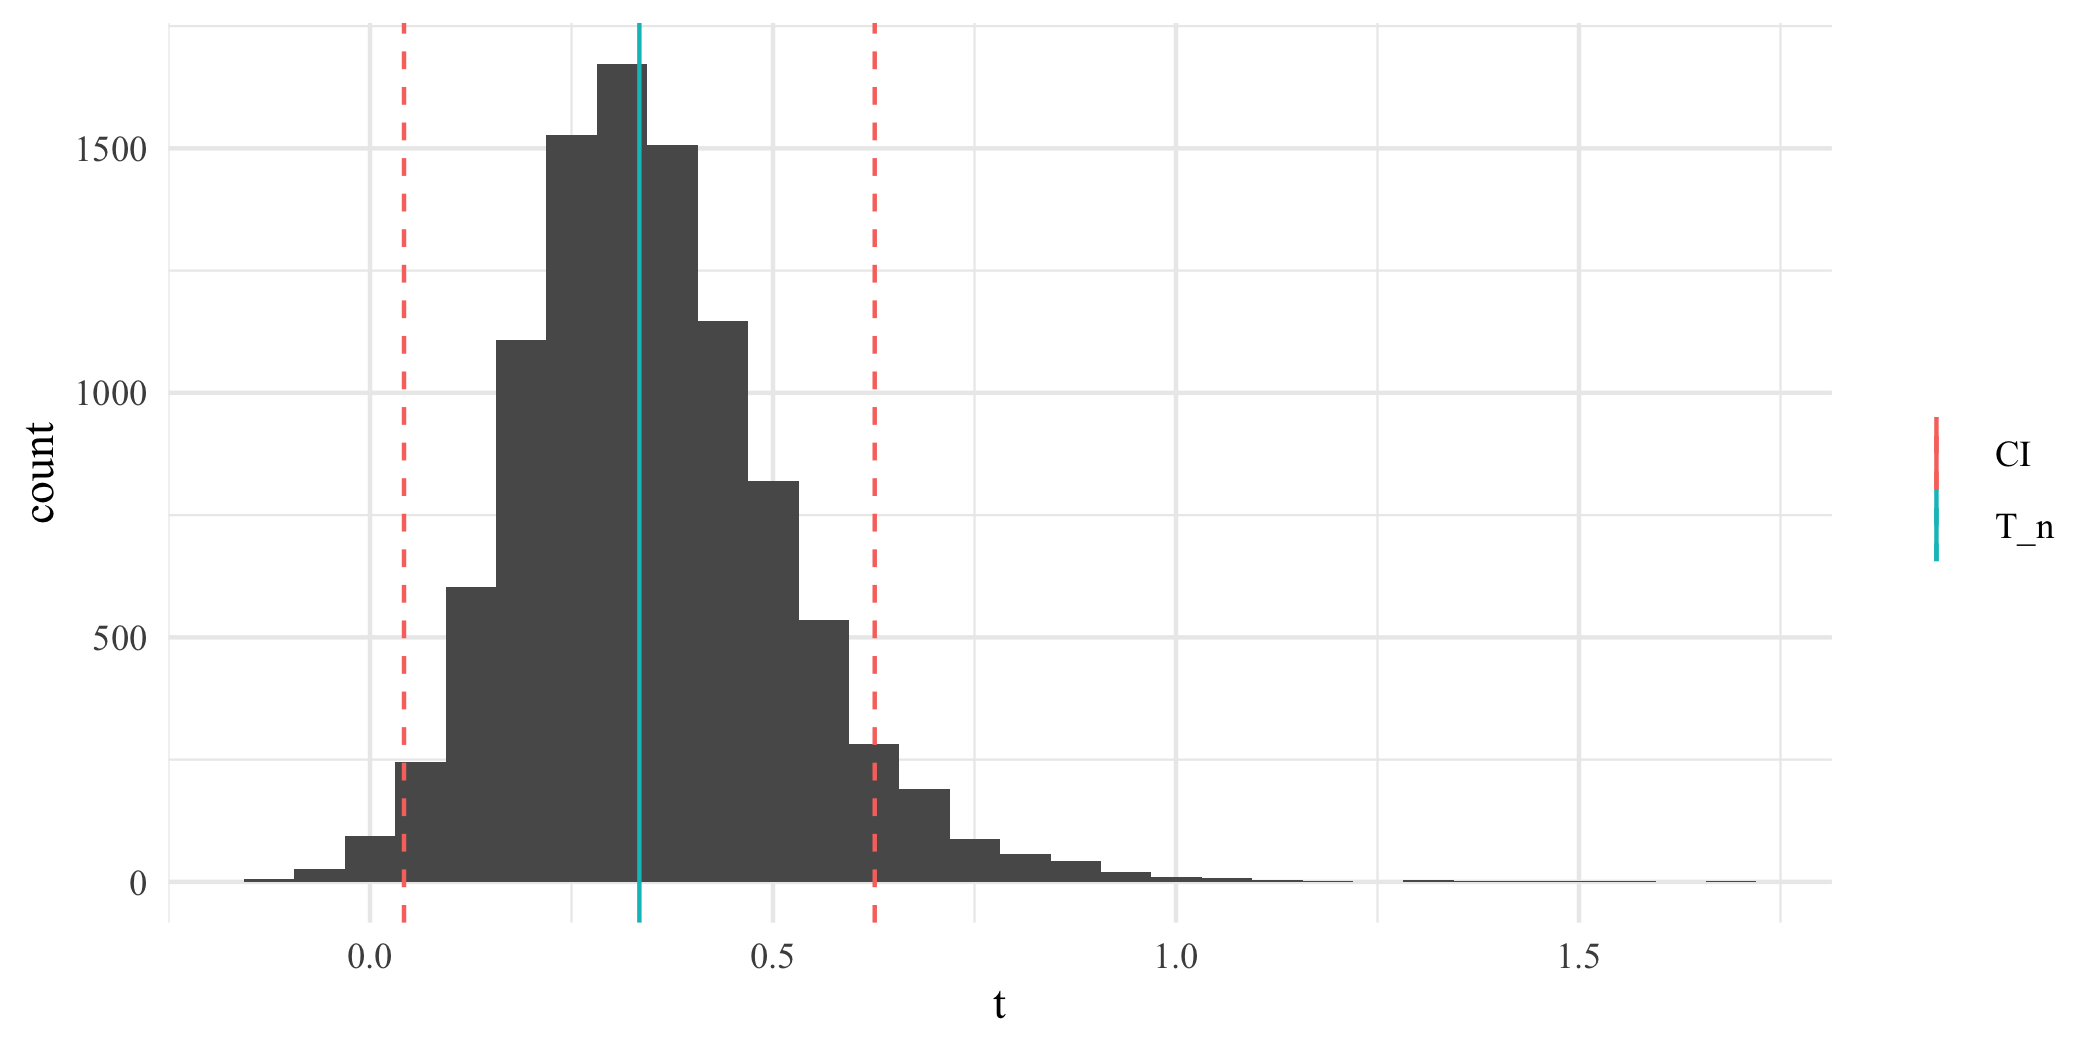
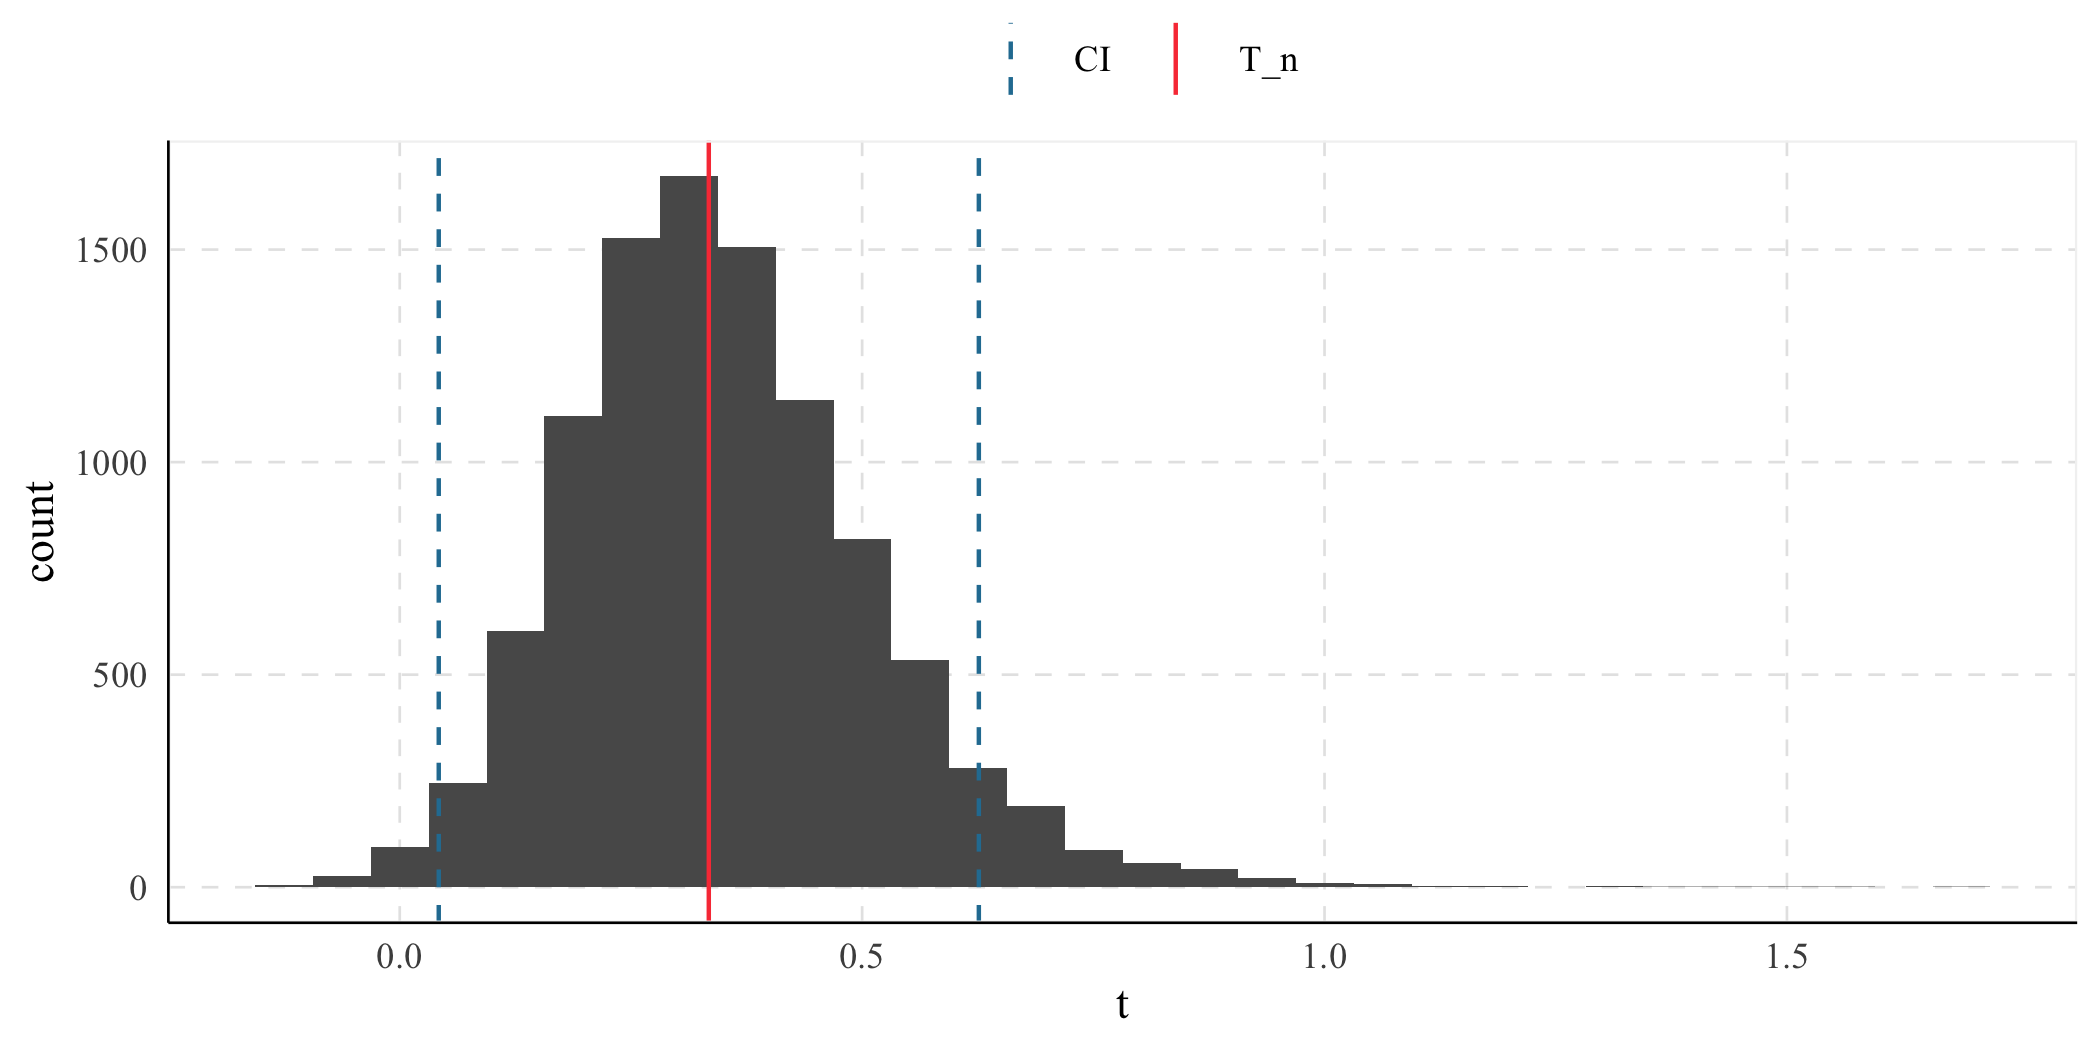
Readme update

diff --git a/README.md b/README.md
@@ -20,6 +20,54 @@ remotes::install_github("JavierMtzRdz/tidydelta")
 devtools::install_github("JavierMtzRdz/tidydelta")  
 ```
 
+## Theoretical Background
+
+In general terms, the Delta Method provides a tool for approximating the
+behaviour of an estimator $\phi(T_n)$ using Taylor Expansion, where
+$T_n$ is an estimator of a parameter $\theta$, and $\phi$ is a function.
+To derive this result, we should begin with the observation that,
+according to the continuous mapping theorem, if
+$T_n \xrightarrow{\mathbb{P}} \theta$ implies
+$\phi(T_n) \xrightarrow{\mathbb{P}} \phi(\theta)$ assuming that $\phi$
+is a continuous function (Vaart 2000, 25).
+
+This observation allows us to take a step forward to decompose the
+theorem of the DM. Assuming that $\phi$ is not only continuous but also
+differentiable and further assuming that $\sqrt{n} (T_n - \theta)$
+converges in distribution to a variable $T$ as the sample size $n$
+increases, (Bouchard-Côté n.d., 87) we can employ Taylor Expansion to
+show that Now, as the sample size $n$ becomes larger, the expression
+$\sqrt{n} (\phi(T_n) - \phi(\theta))$ converges in distribution to
+$\phi'(\theta)T$ (Vaart 2000, 25; Bouchard-Côté n.d.).
+
+Given the previous result, we can rearrange the equations to show that
+
+as $n$ grows larger. For this reason, it is not a surprise that one of
+the primary uses of the Delta Method is to approximate the variance of
+transformations of estimators.
+
+### The Multivariate Case
+
+We often encounter scenarios where our $\theta$ can be expressed as a
+function of more than one parameter. For instance, we may be interested
+in the transformation $\phi$ of $\theta = (\theta_1, \ldots, \theta_k)$
+(Zepeda-Tello et al. 2022). In this case, we are dealing with a
+multivariate parameter space and the estimator
+$T_{n,k} = (Y_{n,1}, \ldots, Y_{n,k})$ becomes a random vector.
+Consequently, the asymptotic behaviour of the estimator $T_{n,k}$ can be
+seen as follows (Weisberg 2005, 79–80)
+
+To approximate this scenario using the Delta Method, we need to compute
+the vector of all partial derivatives of $\phi(\theta)$ with respect to
+each parameter $\theta_1, \ldots, \theta_k$. This vector is denoted as
+$\nabla \phi$. With this vector, we can extend the Delta Method to the
+multivariate case stating that asymptotically In this equation,
+$\nabla_{\theta}^\top$ represents the transpose of the gradient vector
+$\nabla \phi$, and $\Sigma$ is the covariance matrix of the random
+vector $T_{nk}$ (Weisberg 2005, 79–80).From this, we obtain that
+$se(\theta) = \sqrt{\nabla_{\theta}^\top\Sigma \nabla_{\theta}}$, which
+constitutes the function that is being implemented in this project.
+
 ## Example
 
 Using tidydelta_m(), the following commands are equivalent:
@@ -28,18 +76,6 @@ Using tidydelta_m(), the following commands are equivalent:
 # Load packages
 library(tidydelta)
 library(tidyverse)
-#> Warning: package 'dplyr' was built under R version 4.3.1
-#> Warning: package 'stringr' was built under R version 4.3.1
-#> ── Attaching core tidyverse packages ──────────────────────── tidyverse 2.0.0 ──
-#> ✔ dplyr     1.1.4     ✔ readr     2.1.4
-#> ✔ forcats   1.0.0     ✔ stringr   1.5.1
-#> ✔ ggplot2   3.4.3     ✔ tibble    3.2.1
-#> ✔ lubridate 1.9.2     ✔ tidyr     1.3.0
-#> ✔ purrr     1.0.2     
-#> ── Conflicts ────────────────────────────────────────── tidyverse_conflicts() ──
-#> ✖ dplyr::filter() masks stats::filter()
-#> ✖ dplyr::lag()    masks stats::lag()
-#> ℹ Use the conflicted package (<http://conflicted.r-lib.org/>) to force all conflicts to become errors
 
 # Simulate samples
 set.seed(547)
@@ -96,9 +132,45 @@ ggplot() +
                                 result$upper_ci),
                  color = "CI"),
              linetype = "dashed") +
-  labs(color = element_blank()) +
-  theme_minimal() +
-  theme(text = element_text(family = "Times New Roman"))
+  labs(color = element_blank()) 
 ```
 
 <img src="man/figures/README-unnamed-chunk-2-1.png" width="100%" />
+
+## References
+
+<div id="refs" class="references csl-bib-body hanging-indent">
+
+<div id="ref-Bouchard-Cote:2023" class="csl-entry">
+
+Bouchard-Côté, Alexandre. n.d. *Probability, Illustrated*. Accessed
+October 25, 2023.
+<https://github.com/alexandrebouchard/probability-illustrated/blob/master/document.pdf>.
+
+</div>
+
+<div id="ref-Vaart:2000a" class="csl-entry">
+
+Vaart, A. W. van der. 2000. *Asymptotic Statistics*. Cambridge Series in
+Statistical and Probabilistic Mathematics. Cambridge University Press.
+
+</div>
+
+<div id="ref-Weisberg:2005" class="csl-entry">
+
+Weisberg, Sanford. 2005. *Applied Linear Regression*. 3rd ed. Hoboken
+NJ: Wiley. <http://www.stat.umn.edu/alr>.
+
+</div>
+
+<div id="ref-Zepeda-TelloSchomakerMaringe:2022" class="csl-entry">
+
+Zepeda-Tello, Rodrigo, Michael Schomaker, Camille Maringe, Matthew J.
+Smith, Aurelien Belot, Bernard Rachet, Mireille E. Schnitzer, and Miguel
+Angel Luque-Fernandez. 2022. “The Delta-Method and Influence Function in
+Medical Statistics: A Reproducible Tutorial.” June 30, 2022.
+<http://arxiv.org/abs/2206.15310>.
+
+</div>
+
+</div>
